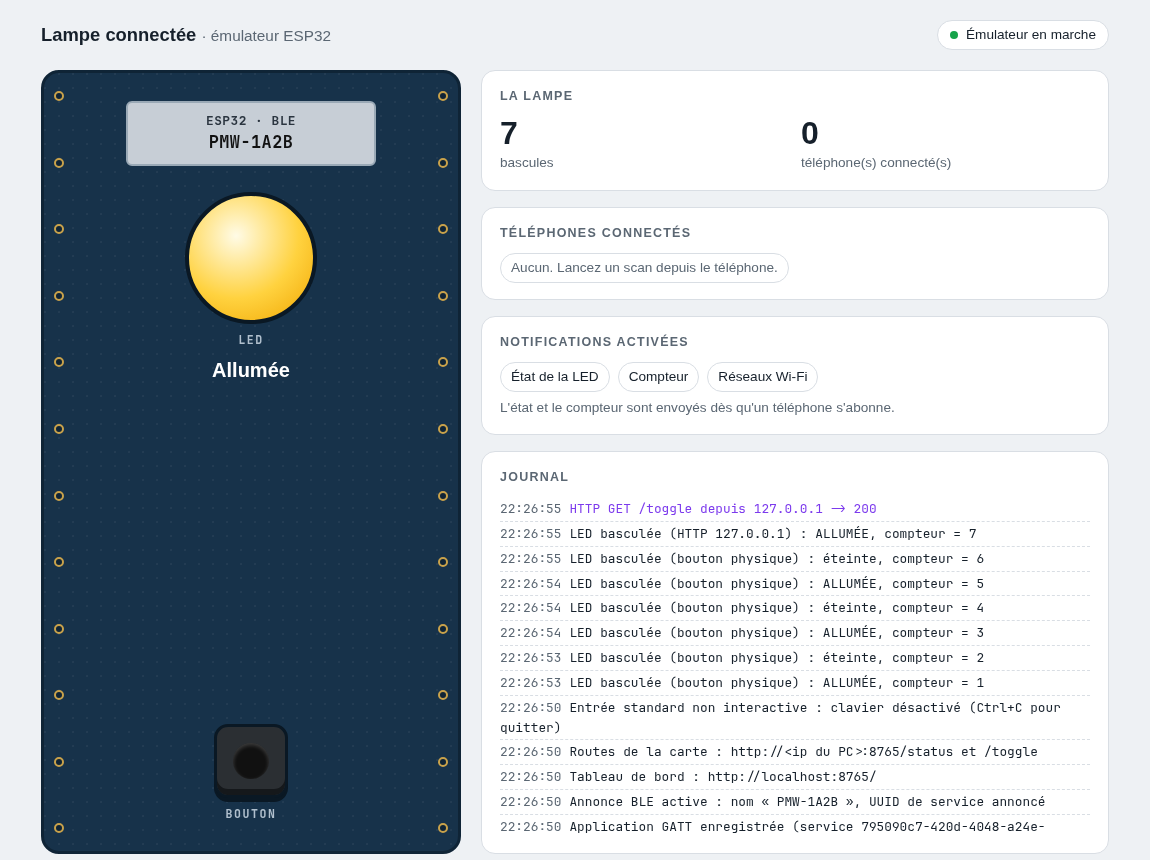
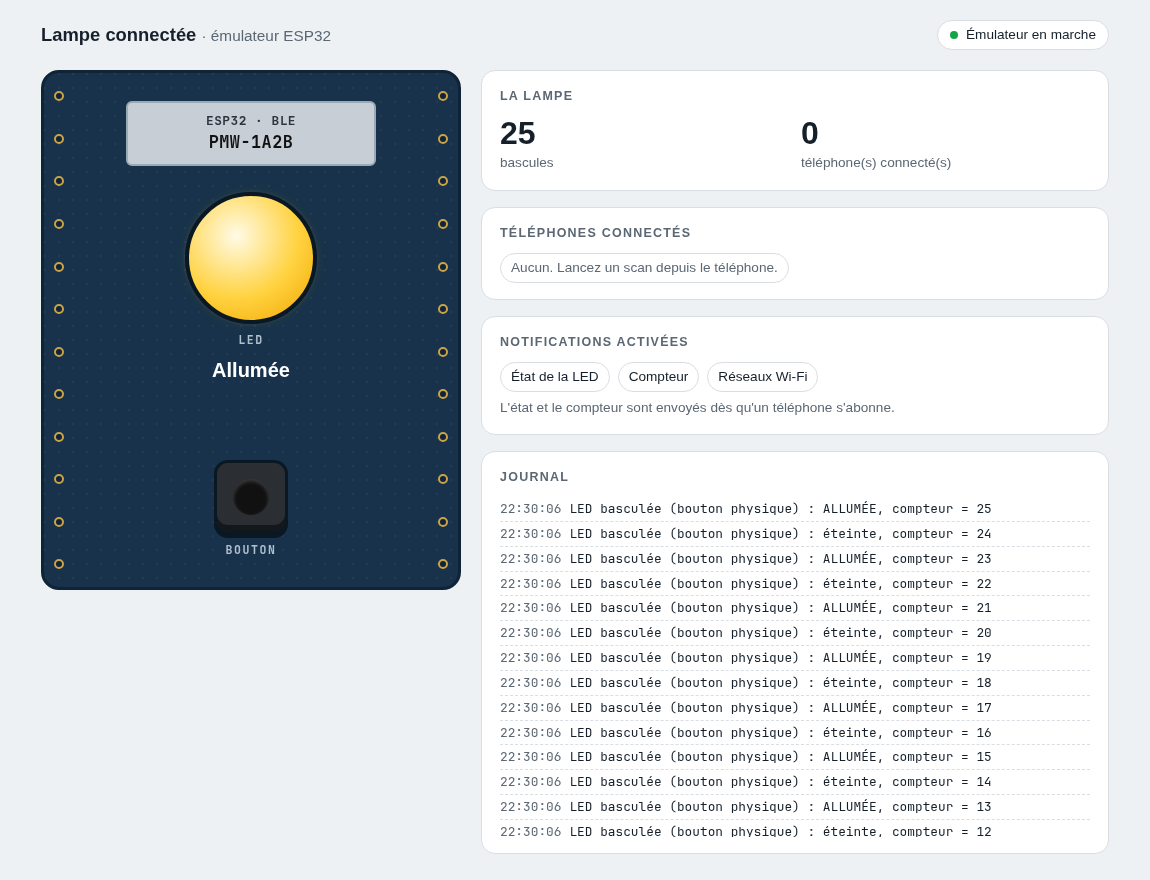
Tableau de bord : la carte garde sa taille, le journal défile

diff --git a/lampe/web/index.html b/lampe/web/index.html
@@ -40,12 +40,13 @@ h1 small { font-weight: 400; color: var(--texte-doux) }
 .statut::before { content: ""; width: 8px; height: 8px; border-radius: 50%; background: var(--vert) }
 .statut.hors-ligne::before { background: var(--rouge) }
 main { display: grid; grid-template-columns: minmax(0, 420px) minmax(0, 1fr); gap: 20px; max-width: 1100px; margin: 0 auto; padding: 12px 16px 32px }
-@media (max-width: 860px) { main { grid-template-columns: 1fr } }
+@media (max-width: 860px) { main { grid-template-columns: 1fr } .carte { position: static } }
 
 /* La carte */
 .carte {
   position: relative; background: var(--pcb); border: 3px solid var(--pcb-bord); border-radius: 18px;
-  padding: 28px 28px 32px; color: var(--serigraphie); min-height: 520px;
+  padding: 28px 28px 32px; color: var(--serigraphie); height: 520px;
+  align-self: start; position: sticky; top: 16px; /* taille fixe : ne suit pas la hauteur du journal */
   display: flex; flex-direction: column; align-items: center; gap: 26px;
   background-image: radial-gradient(circle at 1px 1px, rgb(255 255 255 / .05) 1px, transparent 0); background-size: 14px 14px;
 }
